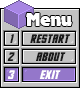
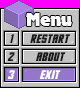
fixed colorkey on menu.png; added startCountdown function for future use

Changed region(s): [[0.25, 0.0, 1.0, 0.0909], [0.0, 0.0, 0.225, 0.0909]]

diff --git a/Tetris/Game.cpp b/Tetris/Game.cpp
@@ -520,6 +520,9 @@ bool Game::load_files()
   interfaceMessagePaused = load_image("Tetris.app/Contents/Resources/img/paused.png");
   
   interfaceMenu = load_image("Tetris.app/Contents/Resources/img/menu.png");
+  Uint32 colorkey = SDL_MapRGB( interfaceMenu->format, 0xFF, 0, 0xFF);
+  SDL_SetColorKey( interfaceMenu, SDL_SRCCOLORKEY, colorkey);
+  
   /*
   if ( boardOutline == NULL )
   {
@@ -761,4 +764,15 @@ void Game::fillQueue()
   for ( int i = 0; i < 5; i++ ){
     queue.push_back( bag->getNextPiece() );
   }
+}
+
+void Game::startCountdown()
+{
+  cout<<"3"<<endl;
+  SDL_Delay(1000);
+  cout<<"2"<<endl;
+  SDL_Delay(1000);
+  cout<<"1"<<endl;
+  SDL_Delay(1000);
+  cout<<"Go!"<<endl;
 }

diff --git a/Tetris/Game.h b/Tetris/Game.h
@@ -95,6 +95,7 @@ private:
   void holdTetrimino();
   void nextTetrimino();
   void fillQueue();
+  void startCountdown();
   
   
   SDL_Surface *load_image( string filename );
